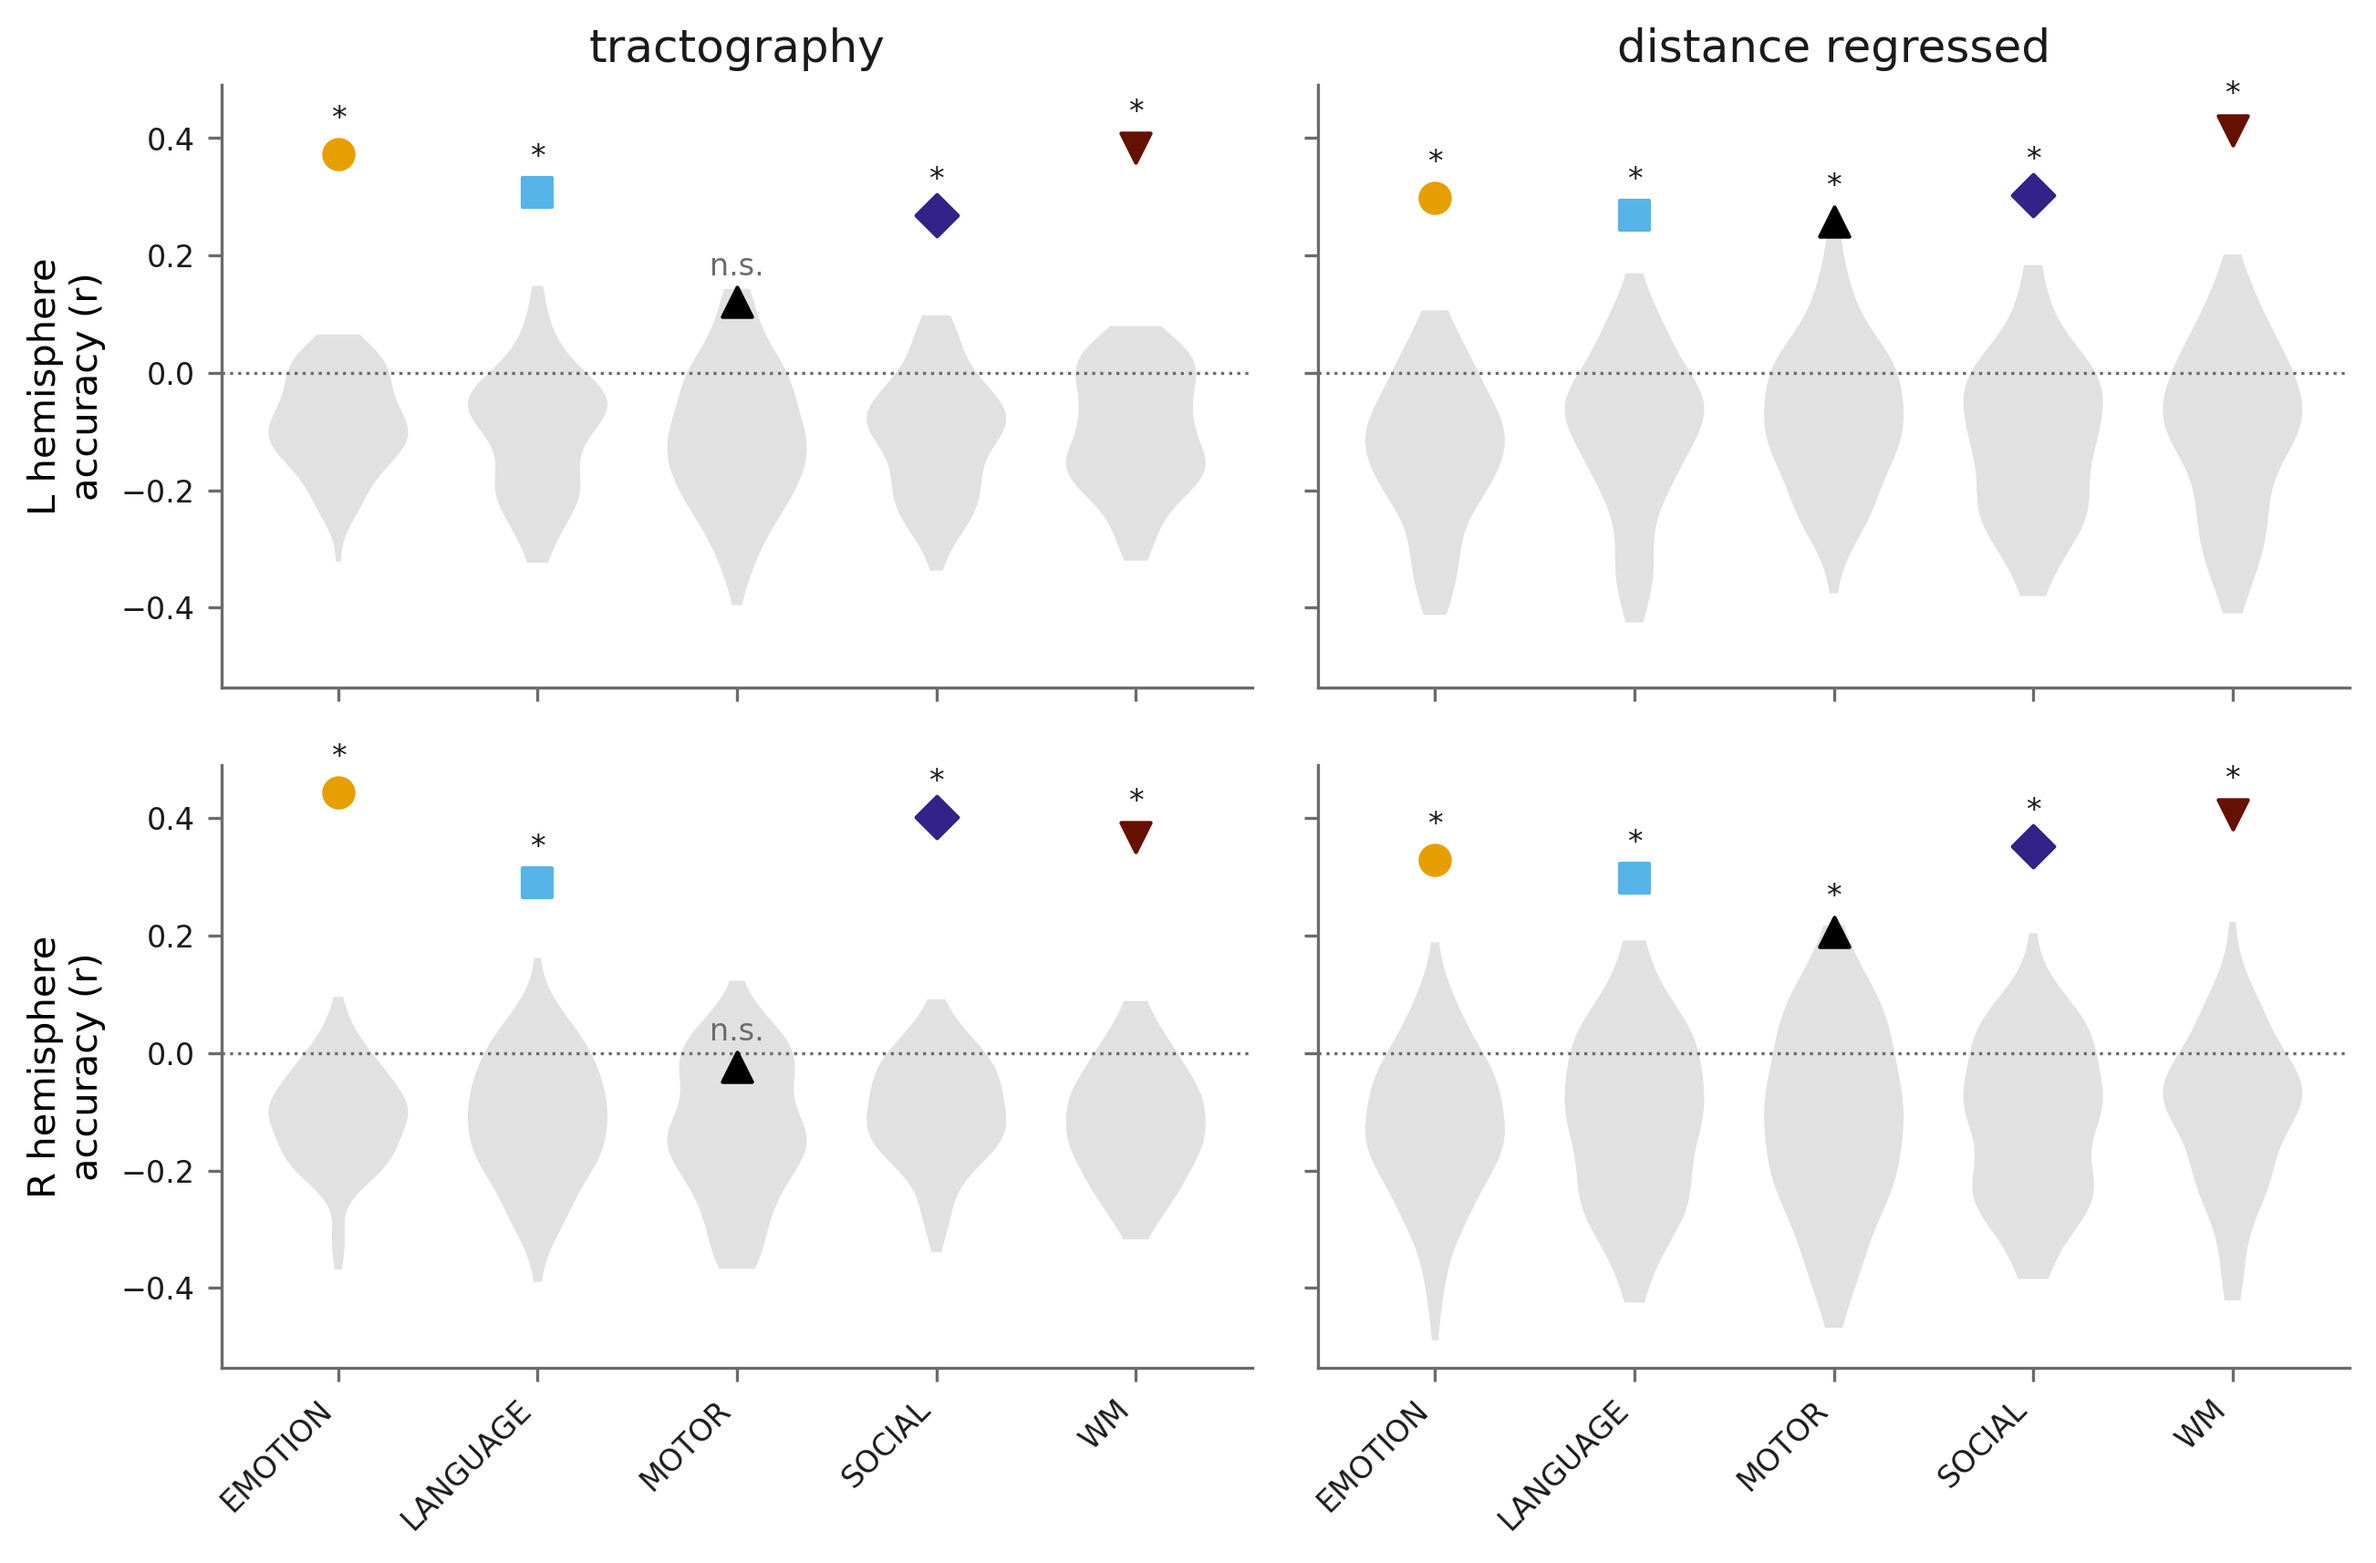
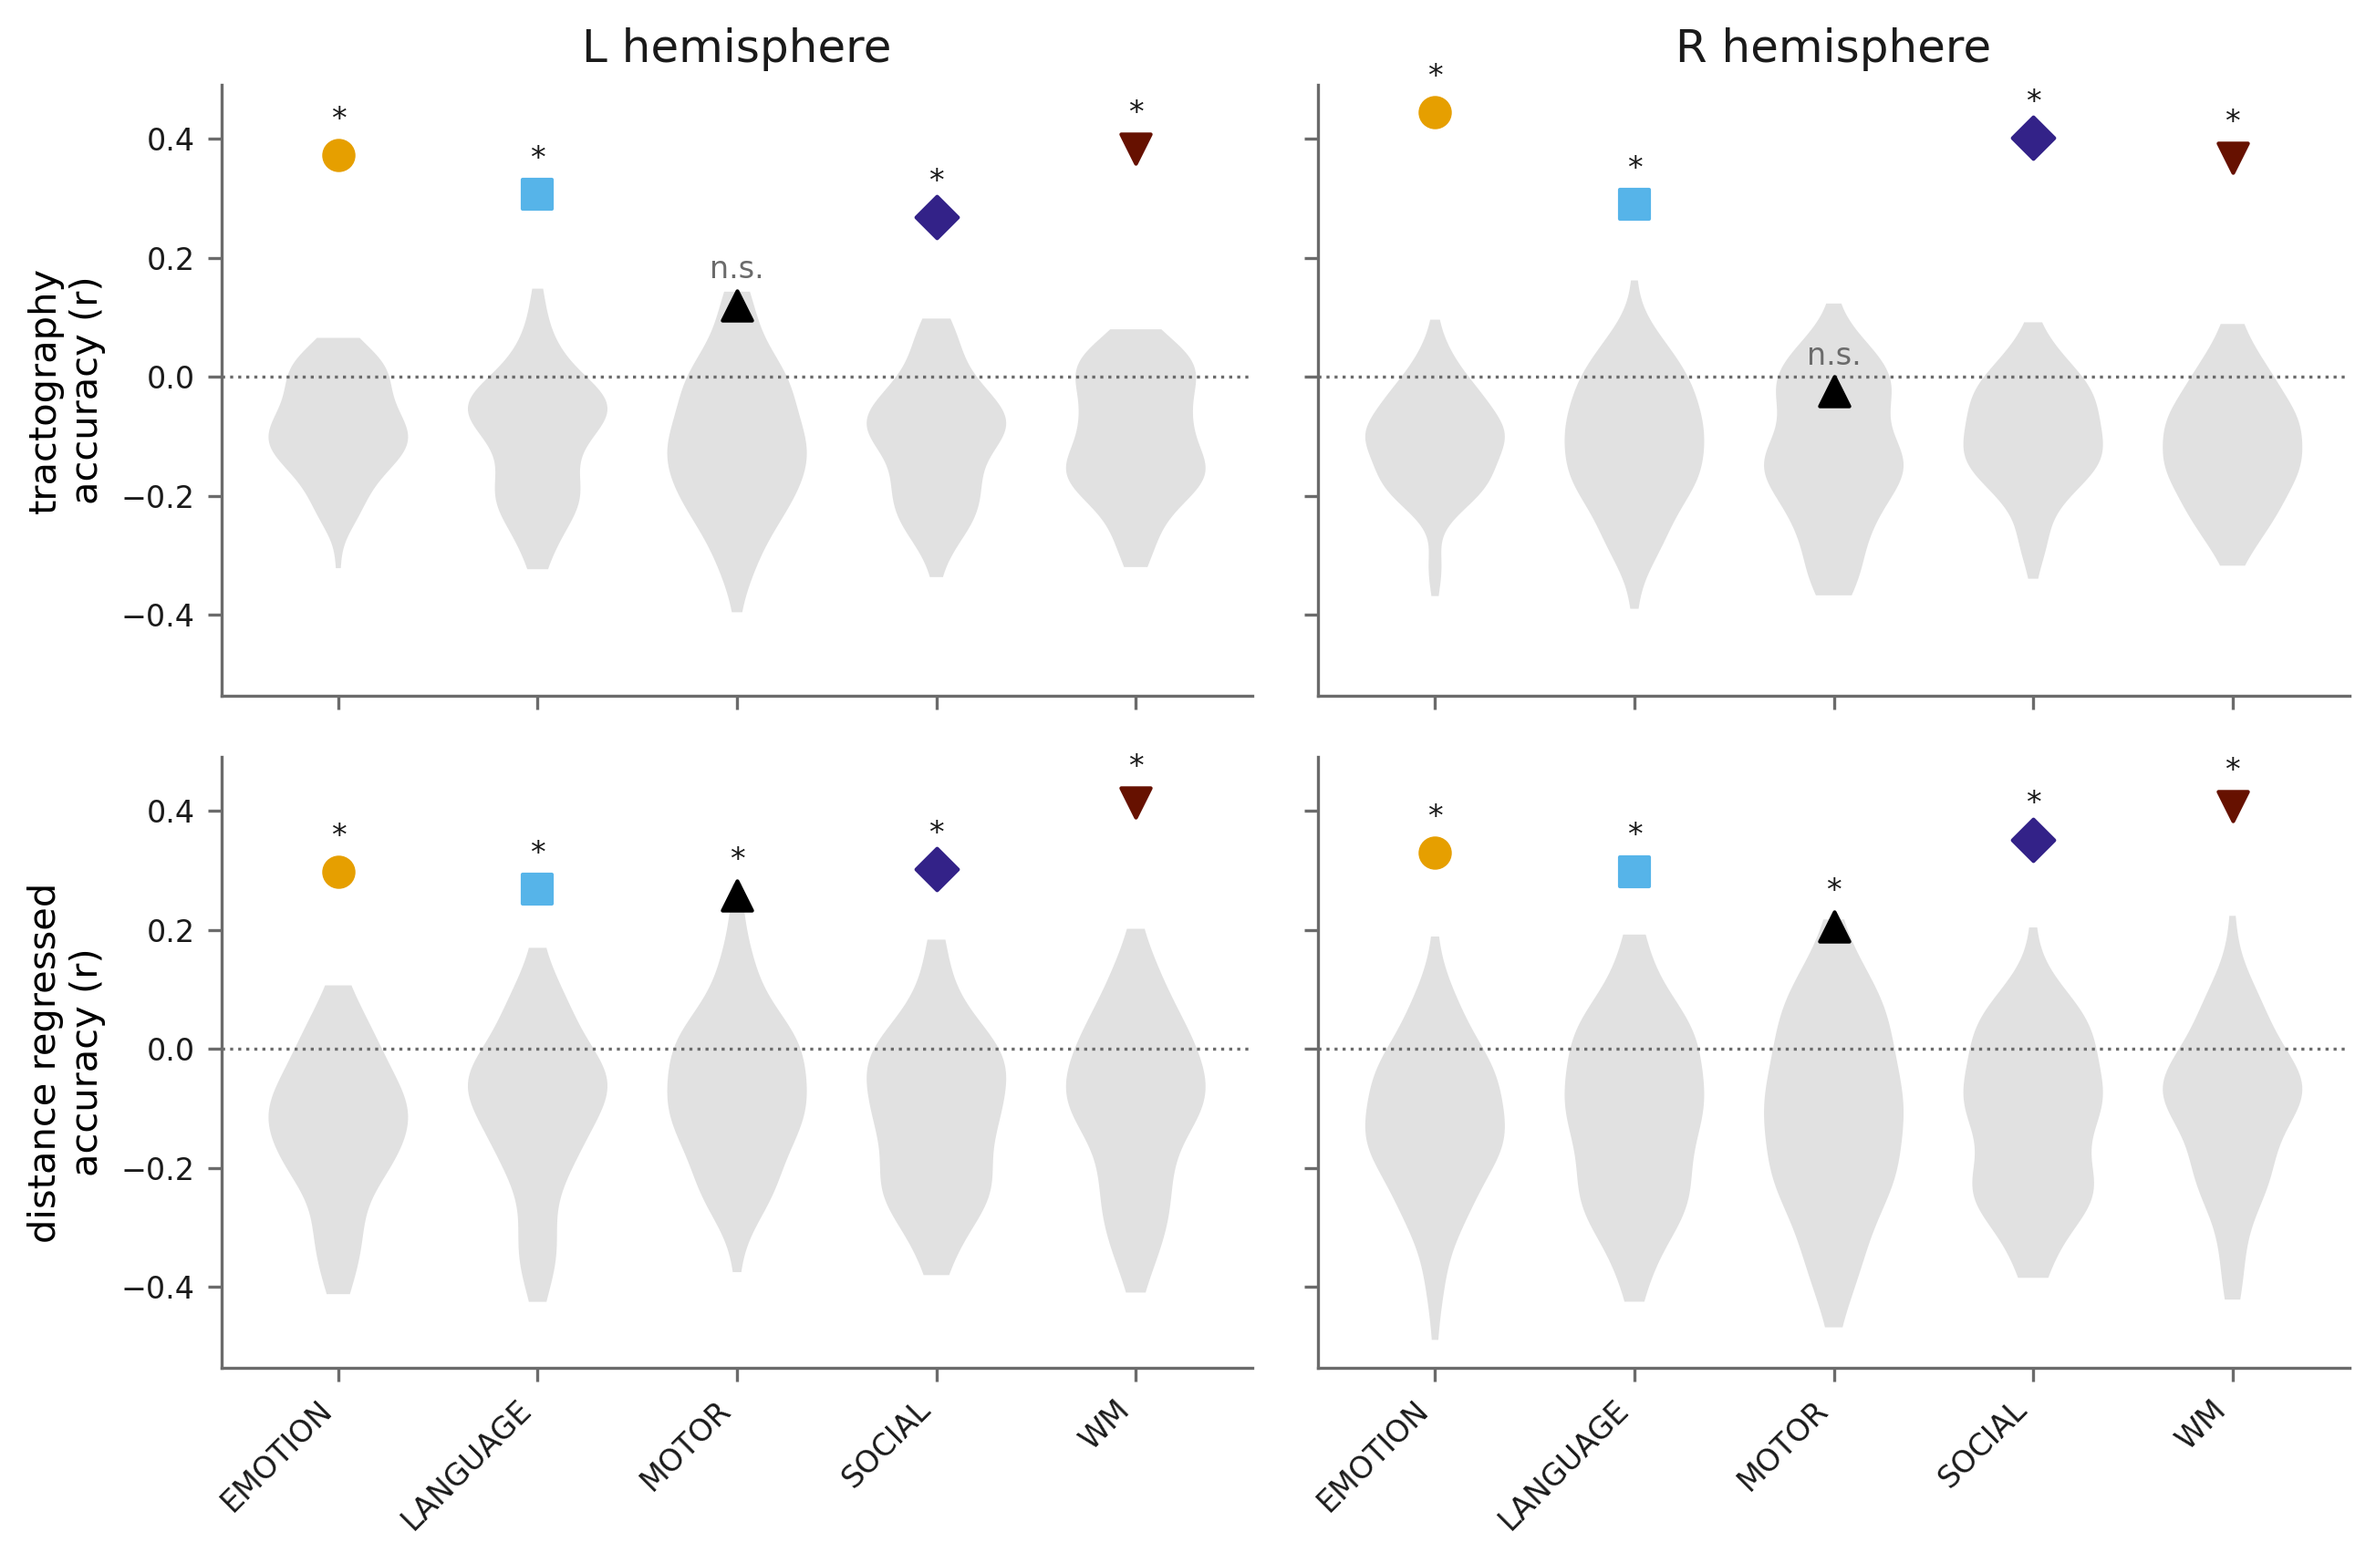
Fig. 3: hemispheres as columns, feature sets as rows, matching the other figures

diff --git a/src/sti/plotting.py b/src/sti/plotting.py
@@ -699,17 +699,19 @@ def plot_pipeline_null_ladder(nulls: dict, summaries: dict, *, title: str = ""):
 
     ``nulls`` maps a feature-set label (e.g. "tractography", "distance
     regressed") to the merged per-surrogate null table; ``summaries`` maps the
-    same labels to the summary tables (observed_r, p_fdr, stars). One panel
-    per (hemisphere, feature set): the null distribution of each contrast as
-    a violin, the observed accuracy as a filled marker in the contrast's
-    colour. Under region-level cross-validation the nulls sit below zero
-    (stitched intercepts anti-predict), so the zero line is drawn explicitly.
+    same labels to the summary tables (observed_r, p_fdr, stars). Hemispheres
+    are the columns (L left, R right, matching the other figures) and the
+    feature sets the rows; each panel shows the null distribution of each
+    contrast as a violin and the observed accuracy as a filled marker in the
+    contrast's colour. Under region-level cross-validation the nulls sit
+    below zero (stitched intercepts anti-predict), so the zero line is drawn
+    explicitly.
     """
     plt = _mpl()
     labels = list(nulls)
     hemis = ("L", "R")
-    fig, axes = plt.subplots(len(hemis), len(labels),
-                             figsize=(4.4 * len(labels), 2.9 * len(hemis)),
+    fig, axes = plt.subplots(len(labels), len(hemis),
+                             figsize=(4.4 * len(hemis), 2.9 * len(labels)),
                              sharex=True, sharey=True)
     axes = np.atleast_2d(axes)
 
@@ -717,8 +719,8 @@ def plot_pipeline_null_ladder(nulls: dict, summaries: dict, *, title: str = ""):
     short = [t.replace("tfMRI_", "") for t in tasks]
     colours = dict(zip(tasks, PALETTE))
 
-    for i, hemi in enumerate(hemis):
-        for j, lab in enumerate(labels):
+    for i, lab in enumerate(labels):
+        for j, hemi in enumerate(hemis):
             ax = axes[i][j]
             null, summ = nulls[lab], summaries[lab]
             for x, task in enumerate(tasks):
@@ -740,9 +742,9 @@ def plot_pipeline_null_ladder(nulls: dict, summaries: dict, *, title: str = ""):
             ax.set_xticks(range(len(tasks)))
             ax.set_xticklabels(short, rotation=45, ha="right")
             if i == 0:
-                ax.set_title(lab, color=INK)
+                ax.set_title(f"{hemi} hemisphere", color=INK)
             if j == 0:
-                ax.set_ylabel(f"{hemi} hemisphere\naccuracy (r)")
+                ax.set_ylabel(f"{lab}\naccuracy (r)")
             _style(ax)
     if title:
         fig.suptitle(title, color=INK)

diff --git a/manuscript/main.tex b/manuscript/main.tex
@@ -474,8 +474,9 @@ $+0.51$).
   decay of tractography.} Observed adult-to-neonate transfer accuracy (one
   marker per contrast) against the full-pipeline surrogate null (grey
   violins: 100 variogram-matched surrogate maps passed through the entire
-  region-cross-validated analysis), for raw tractography features (left) and
-  distance-regressed features (right), in each hemisphere (rows). Null
+  region-cross-validated analysis), for the left and right hemispheres
+  (columns) with raw tractography features (top row) and distance-regressed
+  features (bottom row). Null
   distributions centre below zero because stitched region folds cannot
   exploit regional mean levels. Raw motor transfer does not exceed its null;
   after removal of the distance decay every contrast does
